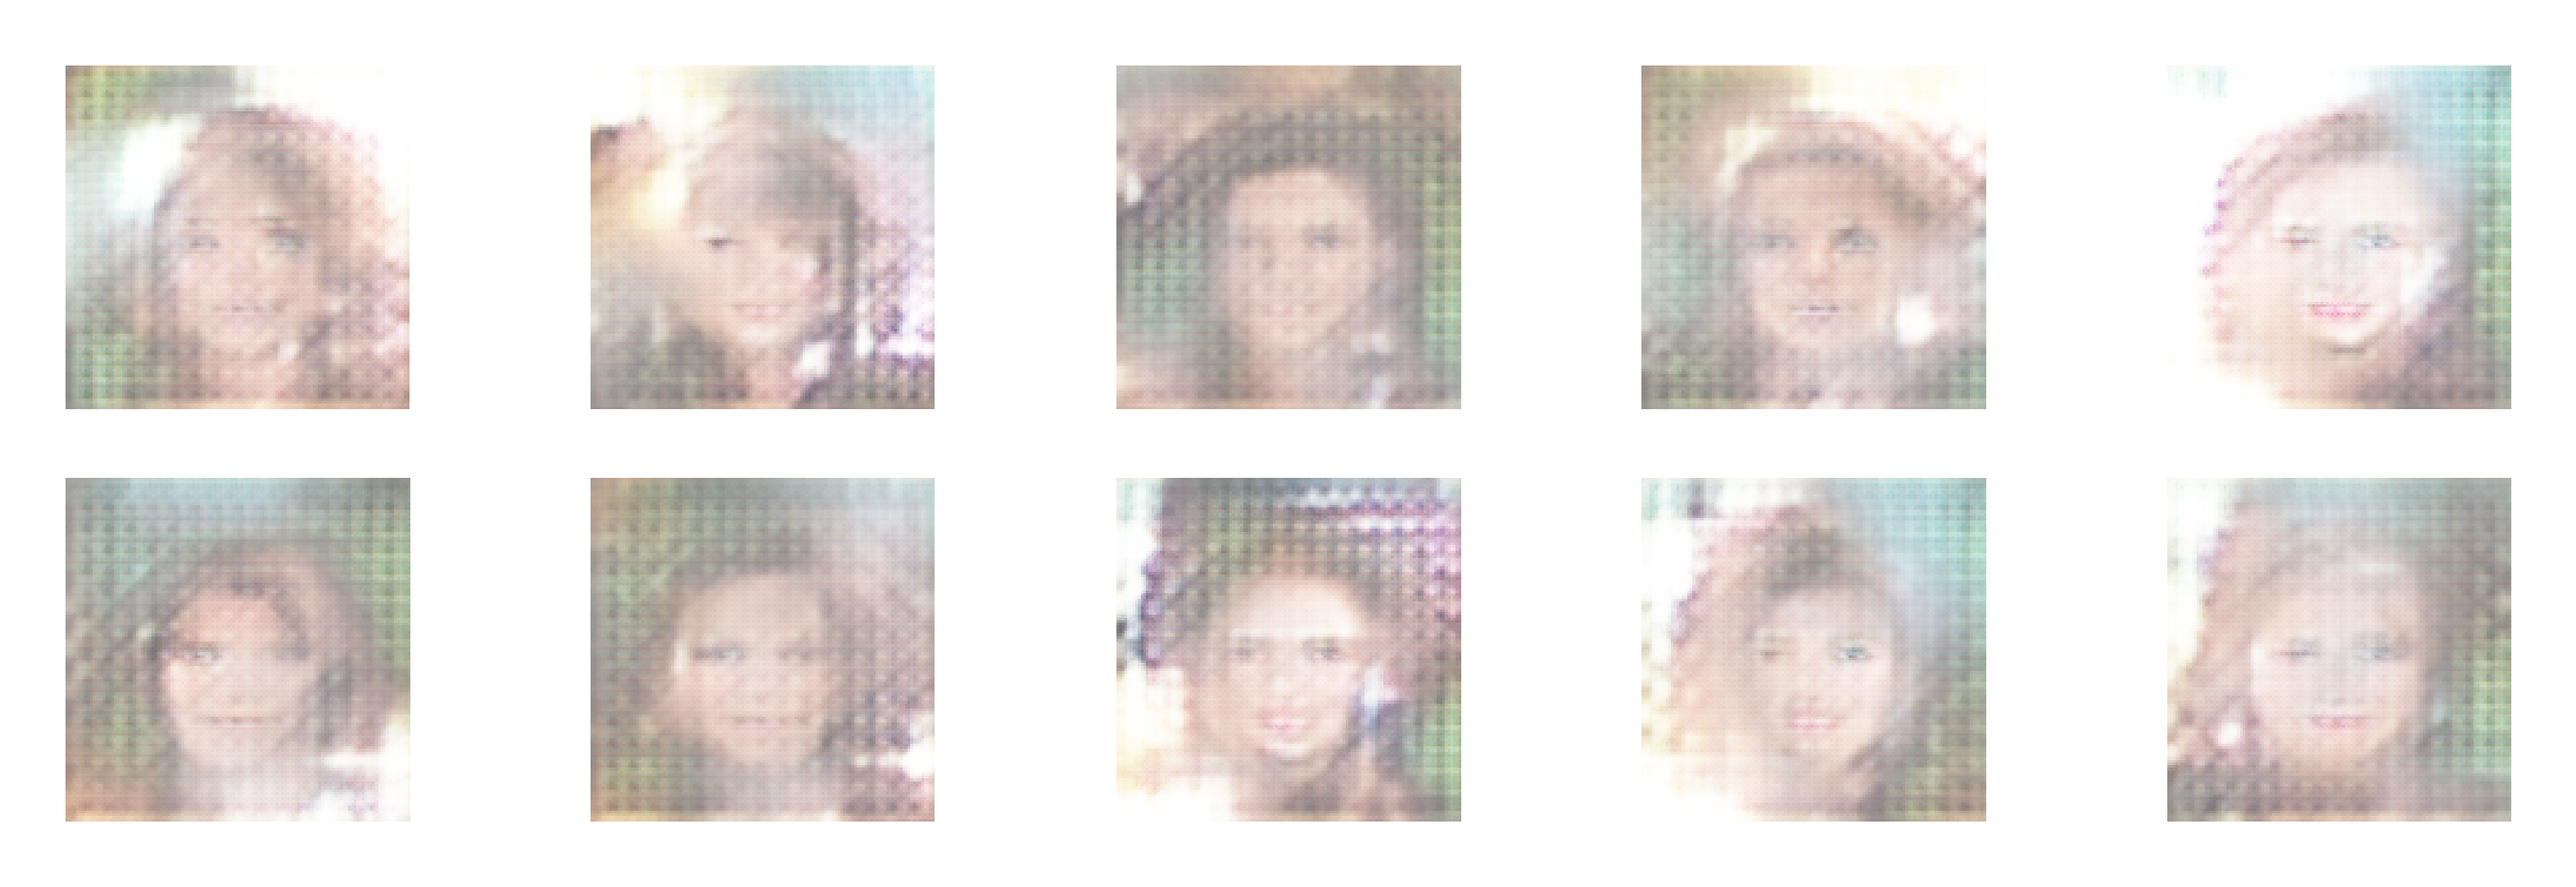
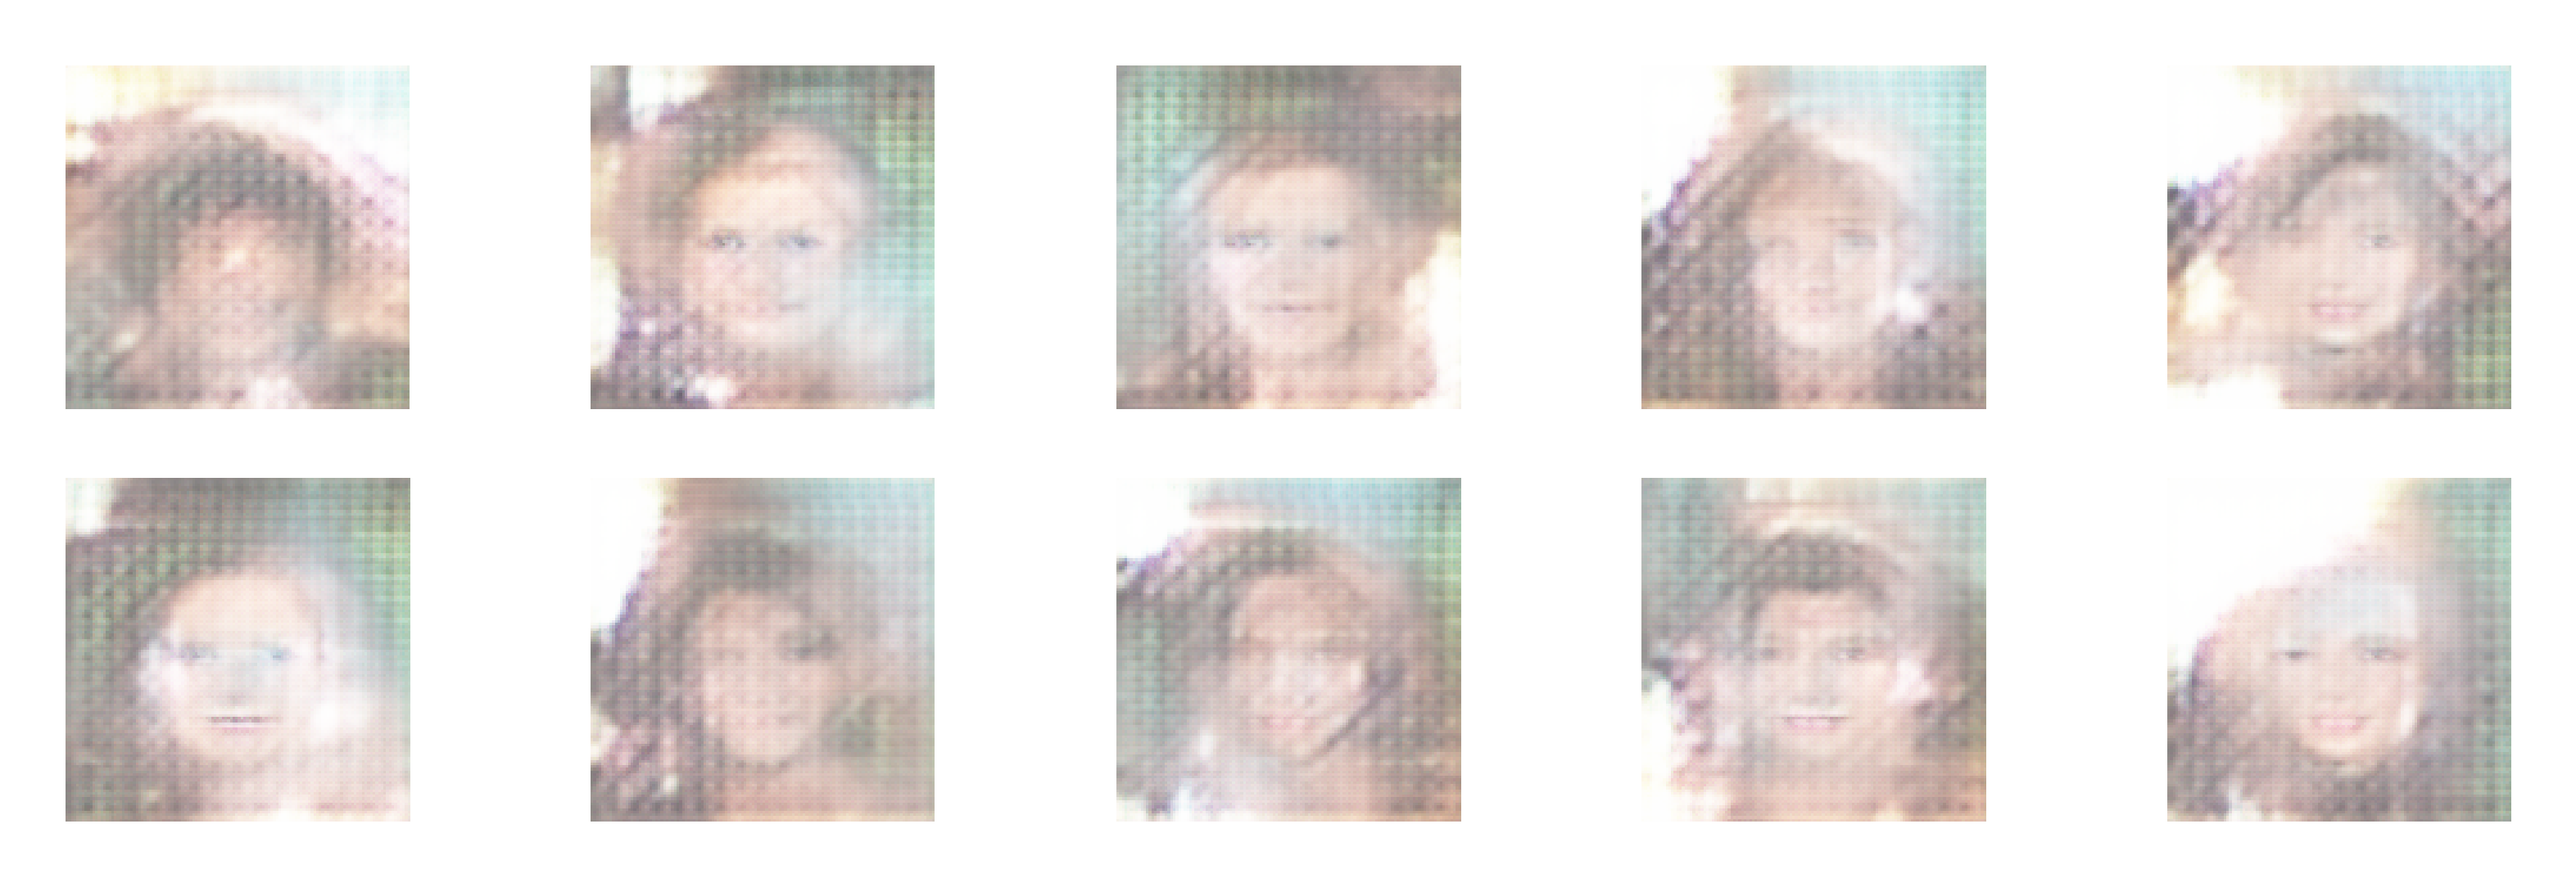
Tried file save

diff --git a/app.js b/app.js
@@ -2,6 +2,8 @@ const app = express();
 import shell from "shelljs";
 import express from "express";
 import bodyParser from "body-parser";
+import formidable from "formidable"; 
+import fs from 'fs';
 
 const PORT = 3000;
 const IMAGEPATH = "./tensor_flow/Samples"
@@ -55,11 +57,19 @@ app.get('/API', (req, res) => {
   res.render('function.ejs', {title: 'API', kernels: KERNELS, sessions: SESSIONS, files: DIRCONTENTS, trainProgress:TRAINPROGRESS, notebooks: NOTEBOOKS});
 });
 
+app.post('/upload', (req,res) => {
+  var form = new formidable.IncomingForm();
+    form.parse(req, function (err, fields, files) {
+      console.log(files);
+    });
+  res.redirect(req.get('referer'));
+});
+
+
 app.post('/create_session', (req, res) => {
   const body = {
     notebookname: req.body.notebook,
   }
-
   let test = shell.exec(`curl -d '${JSON.stringify(body)}' \
                           -H 'Content-Type: application/json' \
                           http://127.0.0.1:8080/session `).stdout;

diff --git a/webhook/webhook.js b/webhook/webhook.js
@@ -49,15 +49,8 @@ app.get('/ai', (req, res) => {
 });
 
 app.post('/begin_gen', async (req, res) => {
-  if(genPromise == null){
+    shell.exec("rm Samples/*");
     genPromise = shell.exec(`python load.py ${req.body.numImages}`, { async:true });
     res.json({respose: "Generation started"})
-  }else{
-    genPromise.on('exit', function (code, signal){
-      console.log('Process ended with ' + `code ${code} and signal ${signal}`);
-      genPromise = null;
-    });
-    res.json({response: "Generation in progress"});
-  }
 });
 
